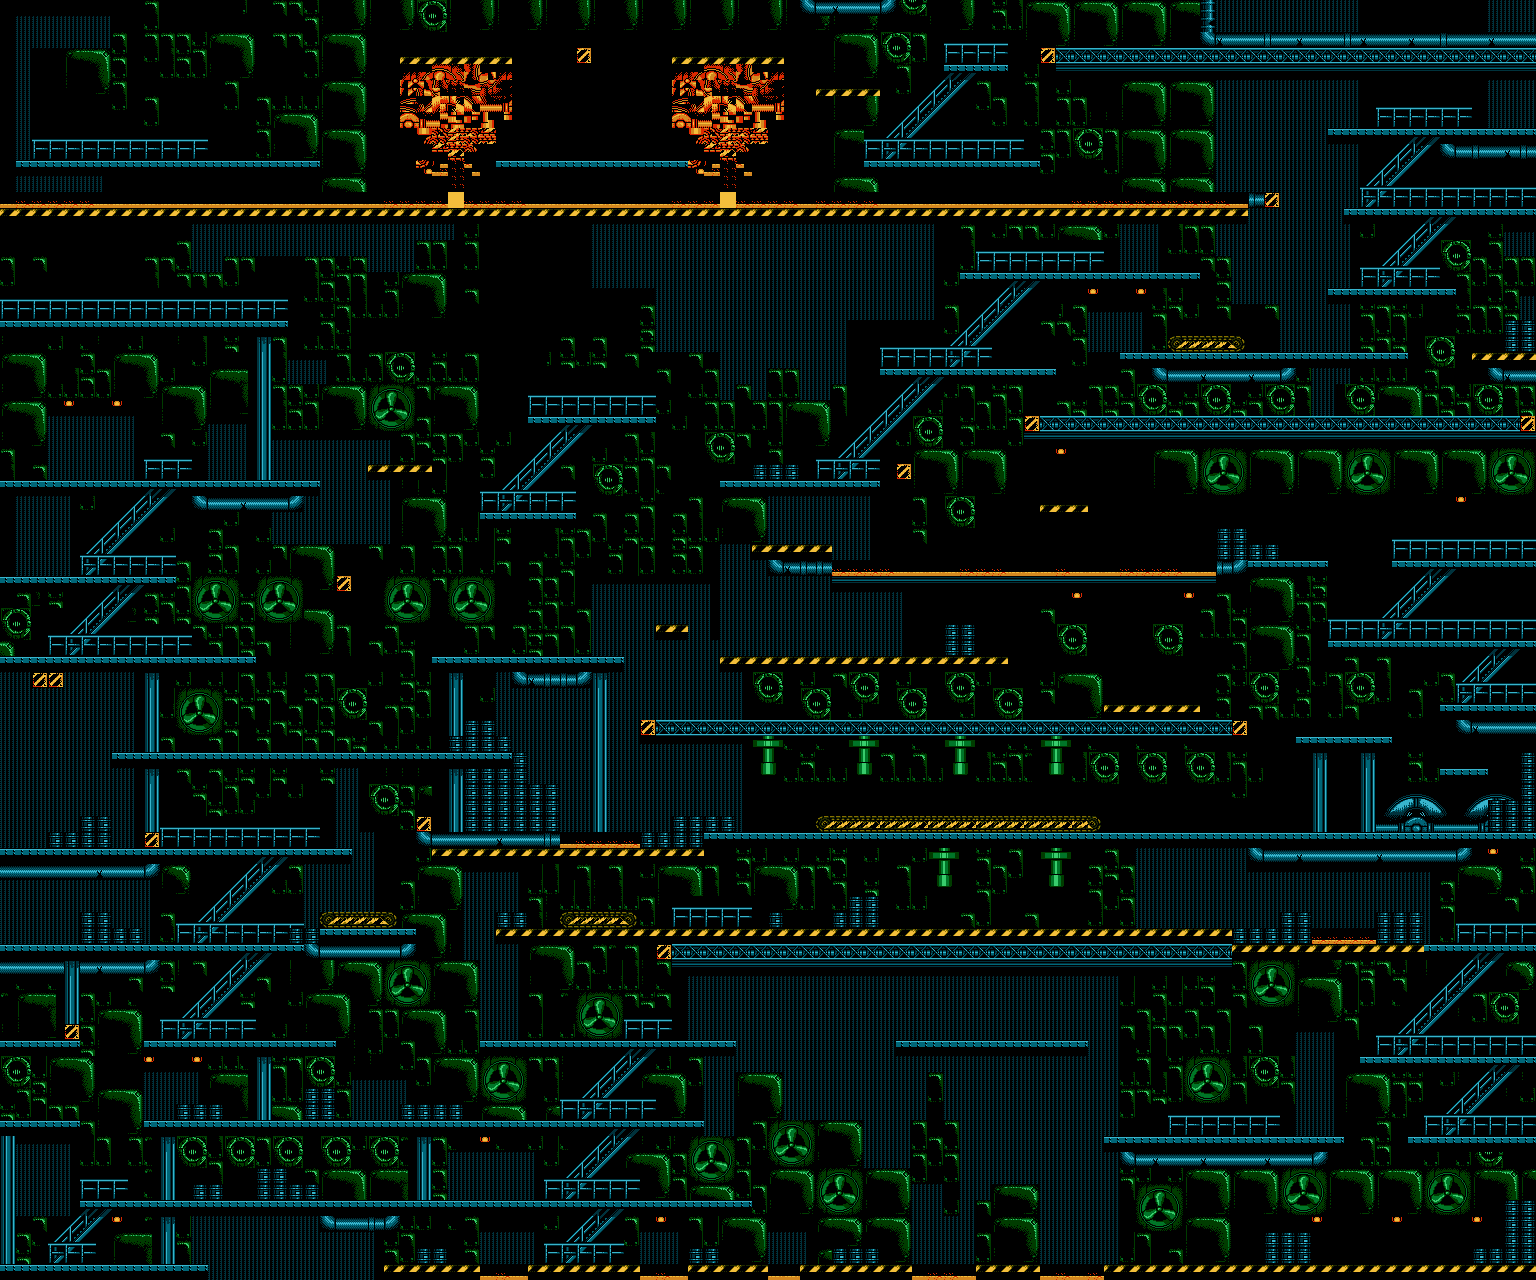
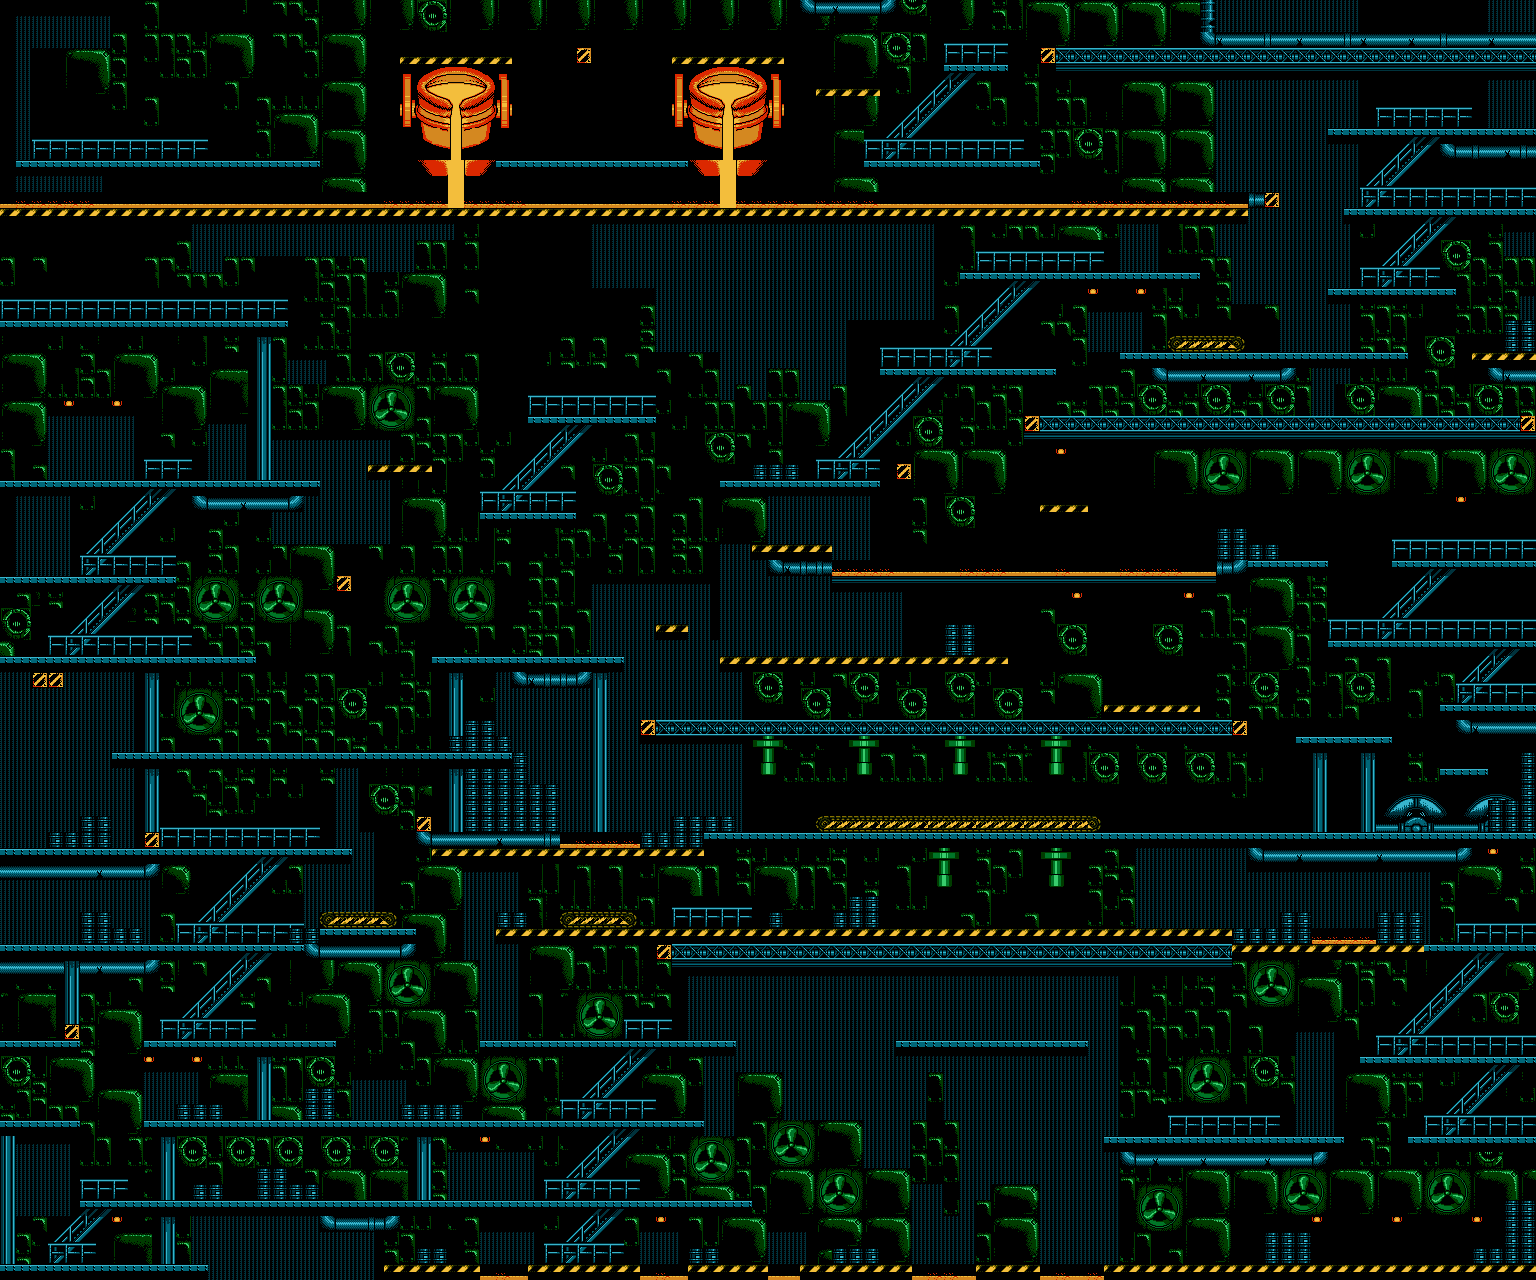
Terminator 2: the maps' CHR banks tile by tile — the steel mill's ladles whole, its fans one picture

Changed region(s): [[0.4375, 0.0312, 0.5312, 0.1562], [0.25, 0.0312, 0.3438, 0.1562]]

diff --git a/terminator-2-judgment-day/src/tile-banks.ts b/terminator-2-judgment-day/src/tile-banks.ts
@@ -1,0 +1,161 @@
+/**
+ * Which CHR bank the game draws each map tile with (STATUS §9). One set of banks a map is not
+ * enough: in the steel mill the field's background banks (slots 2-3) turn the fans by cycling
+ * 8/9, a/b, c/d, e/f a few frames each, and while the ladles of molten steel are in view the game
+ * holds 28/29 instead — the ladles exist only in those — switching the lines below back to the fans'
+ * set by the scanline IRQ; the elevator's car is drawn from 42/43 on its lines only.
+ *
+ * So, per area: a set of background banks that the field takes for a few frames at a time is an
+ * animation (`ANIMATED`: its stretches at the field's top average under 30 frames), and a tile drawn
+ * from it is drawn from the one frame render.ts looks at (`LOOK`) for the whole map, so a fan stays
+ * one picture. A tile drawn from a set held longer gets that set's bank for its slot.
+ *
+ * From the packed run (out/levels/take.bin.gz, src/take-pack.ts): on every shown frame, every map tile
+ * whose middle is in the field, the set of its line (the bank run through its middle). Per tile
+ * `keep` decides.
+ *   tileBanks(header) → Int16Array (tile row × tile columns): its own bank, or -1 (the look's)
+ *   node --experimental-strip-types --no-warnings src/tile-banks.ts   (prints a summary)
+ */
+import { readFileSync } from 'node:fs';
+import { gunzipSync } from 'node:zlib';
+import { HEADERS, area, tileAt } from './level.ts';
+import { BANKS, FIELD, SIZE } from './take-pack-layout.ts';
+
+let counts: Map<number, Map<number, Map<number, number>>> | null = null;
+/** In the counts: the tile was drawn from an animated set (or from the look's own). */
+const FIELD_OWN = -1;
+/** A set whose stretches at the field's top average fewer frames than this is an animation. */
+const ANIMATED = 30;
+/** Per header, the background sets found to be animations (printed by the summary). */
+const animatedOf = new Map<number, Map<string, number>>();
+
+/** Every shown frame of the packed run: its state, through `each`. */
+function frames(each: (s: Uint8Array) => void) {
+  const data = gunzipSync(readFileSync('out/levels/take.bin.gz'));
+  const total = (data[4] | (data[5] << 8) | (data[6] << 16)) + 1;
+  const size = data[8] | (data[9] << 8);
+  if (size !== SIZE) throw new Error(`take.bin.gz has states of ${size}, not ${SIZE}`);
+  const s = new Uint8Array(size);
+  let o = 10;
+  for (let f = 0; f < total; f++) {
+    const n = data[o] | (data[o + 1] << 8);
+    o += 2;
+    for (let k = 0; k < n; k++, o += 3) s[data[o] | (data[o + 1] << 8)] = data[o + 2];
+    o += 2 + 2 * (data[o] | (data[o + 1] << 8));
+    if (s[0] < HEADERS && s[1]) each(s);
+  }
+}
+
+const bgOf = (s: Uint8Array, r: number) => {
+  const table = s[6] & 0x10 ? 4 : 0;
+  return [0, 1, 2, 3].map((i) => s[BANKS + 9 * r + 1 + table + i]).join(',');
+};
+
+function count() {
+  // The sets at the field's top, frame after frame: how long each holds.
+  const stretches = new Map<number, Map<string, [number, number]>>();
+  let last = '';
+  let lastH = -1;
+  frames((s) => {
+    const k = bgOf(s, 0);
+    if (k === last && s[0] === lastH) return;
+    last = k;
+    lastH = s[0];
+    const m = stretches.get(s[0]) ?? new Map();
+    stretches.set(s[0], m);
+    const e = m.get(k) ?? [0, 0];
+    e[1]++;
+    m.set(k, e);
+  });
+  frames((s) => {
+    const e = stretches.get(s[0])!.get(bgOf(s, 0))!;
+    e[0]++;
+  });
+  for (const [h, m] of stretches) {
+    const anim = new Map<string, number>();
+    for (const [k, [n, times]] of m) if (n / times < ANIMATED) anim.set(k, n / times);
+    animatedOf.set(h, anim);
+  }
+  const areas = Array.from({ length: HEADERS }, (_, h) => area(h));
+  const all = new Map<number, Map<number, Map<number, number>>>();
+  frames((s) => {
+    const h = s[0];
+    const a = areas[h];
+    const anim = animatedOf.get(h)!;
+    const x = ((s[3] << 8) | s[2]) << 16 >> 16;
+    const y = ((s[5] << 8) | s[4]) << 16 >> 16;
+    const table = s[6] & 0x10 ? 4 : 0;
+    const runs = s[12];
+    let byTile = all.get(h);
+    if (!byTile) all.set(h, (byTile = new Map()));
+    const W = a.cols * 2;
+    for (let ty = Math.max(0, Math.ceil((y - 4) / 8)); ty < a.rows * 2; ty++) {
+      const mid = ty * 8 + 4 - y;
+      // The field's last tile row is left out: on some frames its lines are the status bar's, drawn
+      // from the status bar's banks (2, 3).
+      if (mid >= FIELD - 8) break;
+      if (mid < 0) continue;
+      let run = 0;
+      for (let r = 1; r < runs; r++) if (s[BANKS + 9 * r] <= mid) run = r;
+      const animated = anim.has(bgOf(s, run));
+      for (let tx = Math.max(0, Math.ceil((x - 4) / 8)); tx < W; tx++) {
+        const mx = tx * 8 + 4 - x;
+        if (mx >= 256) break;
+        if (mx < 0) continue;
+        const { tile } = tileAt(a, tx, ty);
+        const bank = animated ? FIELD_OWN : s[BANKS + 9 * run + 1 + table + (tile >> 6)];
+        const key = ty * W + tx;
+        let c = byTile.get(key);
+        if (!c) byTile.set(key, (c = new Map()));
+        c.set(bank, (c.get(bank) ?? 0) + 1);
+      }
+    }
+  });
+  return all;
+}
+
+/**
+ * The bank kept for a tile: the field's own (-1) where it was drawn so at least as often as from any
+ * one other bank; else that bank — but the status bar's banks 2 and 3 never win over another (the
+ * game draws parts of the field from them only on its way between maps: black patches in the
+ * hospital's corridors by the elevator).
+ */
+function keep(c: Map<number, number>): number {
+  const own = c.get(FIELD_OWN) ?? 0;
+  const others = [...c].filter(([b]) => b !== FIELD_OWN).sort((p, q) => q[1] - p[1]);
+  const best = others.find(([b]) => b !== 2 && b !== 3) ?? others[0];
+  return best && best[1] > own && !(own > 0 && (best[0] === 2 || best[0] === 3)) ? best[0] : FIELD_OWN;
+}
+
+/**
+ * The elevator shaft (header 3) is left to the look's banks: its whole layout is the car over and
+ * over, and the car the player sees is a window of banks 42/43 the IRQ moves down the shaft (lines
+ * 65-154 on, `src/experiments/bank-runs.ts 3`) — kept per tile it would draw a car on every floor.
+ */
+const MOVING_WINDOW = new Set([3]);
+
+export function tileBanks(header: number): Int16Array {
+  counts ??= count();
+  const a = area(header);
+  const W = a.cols * 2;
+  const out = new Int16Array(W * a.rows * 2).fill(-1);
+  if (MOVING_WINDOW.has(header)) return out;
+  for (const [key, c] of counts.get(header) ?? []) out[key] = keep(c);
+  return out;
+}
+
+if (import.meta.url === `file://${process.argv[1]}`) {
+  counts = count();
+  for (const [h, byTile] of [...counts].sort((p, q) => p[0] - q[0])) {
+    let mixed = 0;
+    const banks = new Map<number, number>();
+    for (const c of byTile.values()) {
+      if (c.size > 1) mixed++;
+      const b = keep(c);
+      banks.set(b, (banks.get(b) ?? 0) + 1);
+    }
+    const list = [...banks].sort((p, q) => q[1] - p[1]).map(([b, n]) => `${b < 0 ? 'own' : b.toString(16)}×${n}`).join(' ');
+    const anim = [...(animatedOf.get(h) ?? [])].map(([k, n]) => `${k} (${n.toFixed(1)} frames)`).join(' ');
+    console.log(`header ${h}: ${byTile.size} tiles seen, ${mixed} drawn from more than one bank; banks kept: ${list}${anim ? `; animated: ${anim}` : ''}`);
+  }
+}

diff --git a/terminator-2-judgment-day/src/render.ts b/terminator-2-judgment-day/src/render.ts
@@ -1,7 +1,9 @@
 /**
  * Every area drawn whole from the cartridge (level.ts) -> out/levels/<header>.png, with the
- * background CHR banks the PPU reads on line 100 and the palette, both at a frame of the TAS inside
- * the area (`LOOK`).
+ * background CHR banks the game drew each tile with in the run (tile-banks.ts; the scanline IRQ
+ * switches them partway down in the steel mill and the elevator) — where the run never showed a tile,
+ * the banks the PPU reads on line 100 — and the palette, both at a frame of the TAS inside the area
+ * (`LOOK`).
  *   node --experimental-strip-types --no-warnings src/render.ts [header …]
  */
 import { mkdirSync, writeFileSync } from 'node:fs';
@@ -9,6 +11,7 @@ import { encodePng } from '../libs/nes/src/png.ts';
 import { NES_RGB } from '../libs/nes/src/palette.ts';
 import { Run } from './run.ts';
 import { HEADERS, NAMES, area, tileAt } from './level.ts';
+import { tileBanks } from './tile-banks.ts';
 
 /** A movie frame inside each header's area, in play (src/experiments/header-loads.ts). */
 export const LOOK = [35500, 13200, 12950, 13500, 18800, 1700, 9500, 19700, 7000];
@@ -37,7 +40,11 @@ export function lookAt(run: Run, f: number, line = 100): Look {
   return { slots, palette: m.ppu.palette.slice() };
 }
 
-export function drawArea(header: number, look: Look, chr: Uint8Array) {
+/**
+ * `banks`: per tile (tile row × tile columns) the 1 KB CHR bank the game drew it with (tile-banks.ts),
+ * -1 where the run never showed it — those take `look`'s.
+ */
+export function drawArea(header: number, look: Look, chr: Uint8Array, banks?: Int16Array) {
   const a = area(header);
   const width = a.cols * 16;
   const height = a.rows * 16;
@@ -45,7 +52,8 @@ export function drawArea(header: number, look: Look, chr: Uint8Array) {
   for (let ty = 0; ty < a.rows * 2; ty++) {
     for (let tx = 0; tx < a.cols * 2; tx++) {
       const { tile, palette } = tileAt(a, tx, ty);
-      const at = look.slots[tile >> 6] + (tile & 63) * 16;
+      const b = banks ? banks[ty * a.cols * 2 + tx] : -1;
+      const at = (b >= 0 ? b * 0x400 : look.slots[tile >> 6]) + (tile & 63) * 16;
       for (let y = 0; y < 8; y++) {
         const lo = chr[at + y];
         const hi = chr[at + y + 8];
@@ -68,7 +76,7 @@ if (import.meta.url === `file://${process.argv[1]}`) {
   const run = new Run();
   for (const h of order) {
     const look = lookAt(run, LOOK[h]);
-    const { pixels, width, height } = drawArea(h, look, run.m.cart.chr);
+    const { pixels, width, height } = drawArea(h, look, run.m.cart.chr, tileBanks(h));
     writeFileSync(`out/levels/${h}.png`, encodePng(pixels, width, height, 1));
     const a = area(h);
     console.log(`header ${h} (${NAMES[h]}): ${a.cols}x${a.rows} blocks, bank ${a.bank}, layout prg ${a.layoutAt.toString(16)}, slots ${look.slots.map((s) => s.toString(16)).join(' ')}`);

diff --git a/terminator-2-judgment-day/src/experiments/bank-runs.ts b/terminator-2-judgment-day/src/experiments/bank-runs.ts
@@ -1,0 +1,40 @@
+/**
+ * The background bank sets of an area's frames, from the packed run: how often each set opens the
+ * field (run 0, from line 0) and how often it comes later (after a scanline IRQ switch), and on
+ * which lines those later runs start.
+ *   node --experimental-strip-types --no-warnings src/experiments/bank-runs.ts <header>
+ */
+import { readFileSync } from 'node:fs';
+import { gunzipSync } from 'node:zlib';
+import { BANKS, SIZE } from '../take-pack-layout.ts';
+
+const header = Number(process.argv[2] ?? 0);
+const data = gunzipSync(readFileSync('out/levels/take.bin.gz'));
+const frames = (data[4] | (data[5] << 8) | (data[6] << 16)) + 1;
+const s = new Uint8Array(SIZE);
+const first = new Map<string, number>();
+const later = new Map<string, { n: number; lines: Map<number, number> }>();
+let o = 10;
+for (let f = 0; f < frames; f++) {
+  const n = data[o] | (data[o + 1] << 8);
+  o += 2;
+  for (let k = 0; k < n; k++, o += 3) s[data[o] | (data[o + 1] << 8)] = data[o + 2];
+  o += 2 + 2 * (data[o] | (data[o + 1] << 8));
+  if (s[0] !== header || !s[1]) continue;
+  const table = s[6] & 0x10 ? 4 : 0;
+  const bg = (r: number) => [0, 1, 2, 3].map((i) => s[BANKS + 9 * r + 1 + table + i].toString(16)).join(',');
+  first.set(bg(0), (first.get(bg(0)) ?? 0) + 1);
+  for (let r = 1; r < s[12]; r++) {
+    if (bg(r) === bg(r - 1)) continue;
+    const e = later.get(bg(r)) ?? { n: 0, lines: new Map() };
+    e.n++;
+    const line = s[BANKS + 9 * r];
+    e.lines.set(line, (e.lines.get(line) ?? 0) + 1);
+    later.set(bg(r), e);
+  }
+}
+console.log('opening the field:', [...first].sort((p, q) => q[1] - p[1]).map(([k, n]) => `${k}×${n}`).join('  '));
+for (const [k, e] of [...later].sort((p, q) => q[1].n - p[1].n)) {
+  const lines = [...e.lines].sort((p, q) => p[0] - q[0]);
+  console.log(`later ${k} ×${e.n}, lines ${lines[0][0]}-${lines[lines.length - 1][0]}`);
+}

diff --git a/terminator-2-judgment-day/src/experiments/mill-phases.ts b/terminator-2-judgment-day/src/experiments/mill-phases.ts
@@ -1,0 +1,31 @@
+/**
+ * The steel mill's top drawn with each of the background bank sets its field opens with (bank-runs.ts):
+ * slots 0-1 = 6, 7 and slots 2-3 = each pair -> runs/mill-<pair>.png (the map's top 768 × 320).
+ *   node --experimental-strip-types --no-warnings src/experiments/mill-phases.ts
+ */
+import { mkdirSync, writeFileSync } from 'node:fs';
+import { encodePng } from '../../libs/nes/src/png.ts';
+import { NES_RGB } from '../../libs/nes/src/palette.ts';
+import { area, tileAt } from '../level.ts';
+import { lookAt, LOOK } from '../render.ts';
+import { Run } from '../run.ts';
+
+const a = area(0);
+const run = new Run();
+const look = lookAt(run, LOOK[0]);
+const chr = run.m.cart.chr;
+const W = 768, H = 320;
+mkdirSync('runs', { recursive: true });
+for (const pair of [[8, 9], [0xa, 0xb], [0xc, 0xd], [0xe, 0xf], [0x28, 0x29]]) {
+  const slots = [6, 7, ...pair].map((b) => b * 0x400);
+  const px = new Uint32Array(W * H);
+  for (let ty = 0; ty < H / 8; ty++) for (let tx = 0; tx < W / 8; tx++) {
+    const { tile, palette } = tileAt(a, tx, ty);
+    const at = slots[tile >> 6] + (tile & 63) * 16;
+    for (let y = 0; y < 8; y++) for (let x = 0; x < 8; x++) {
+      const c = ((chr[at + y] >> (7 - x)) & 1) | (((chr[at + y + 8] >> (7 - x)) & 1) << 1);
+      px[(ty * 8 + y) * W + tx * 8 + x] = NES_RGB[(c ? look.palette[palette * 4 + c] : look.palette[0]) & 0x3f];
+    }
+  }
+  writeFileSync(`runs/mill-${pair[0].toString(16)}.png`, encodePng(px, W, H, 1));
+}

diff --git a/terminator-2-judgment-day/src/bike-corridor.ts b/terminator-2-judgment-day/src/bike-corridor.ts
@@ -12,6 +12,7 @@ import { readCapture } from './capture.ts';
 import { BIKE, area, tileAt } from './level.ts';
 import { LOOK, lookAt } from './render.ts';
 import { Run } from './run.ts';
+import { tileBanks } from './tile-banks.ts';
 
 const a = area(BIKE);
 const W = a.cols * 2;
@@ -36,6 +37,7 @@ for (let ty = 0; ty < H; ty++) for (let tx = 0; tx < W; tx++) {
 const run = new Run();
 const look = lookAt(run, LOOK[BIKE]);
 const chr = run.m.cart.chr;
+const banks = tileBanks(BIKE);
 const width = (x1 - x0 + 1) * 8;
 const height = (y1 - y0 + 1) * 8;
 const pixels = new Uint32Array(width * height);
@@ -43,7 +45,8 @@ for (let ty = y0; ty <= y1; ty++) {
   for (let tx = x0; tx <= x1; tx++) {
     if (!seen[ty * W + tx]) continue;
     const { tile, palette } = tileAt(a, tx, ty);
-    const at = look.slots[tile >> 6] + (tile & 63) * 16;
+    const bk = banks[ty * W + tx];
+    const at = (bk >= 0 ? bk * 0x400 : look.slots[tile >> 6]) + (tile & 63) * 16;
     for (let y = 0; y < 8; y++) {
       const lo = chr[at + y];
       const hi = chr[at + y + 8];

diff --git a/terminator-2-judgment-day/src/take-pack.ts b/terminator-2-judgment-day/src/take-pack.ts
@@ -28,12 +28,7 @@ import { Run } from './run.ts';
 import { BIKE, HEADERS, ORDER, area, tileAt, type Area } from './level.ts';
 import { readFileSync } from 'node:fs';
 
-export const SIZE = 4480;
-export const BANKS = 16;
-export const OAM = 96;
-export const PAL = 352;
-export const NT = 384;
-export const FIELD = 220;
+import { BANKS, FIELD, NT, OAM, SIZE } from './take-pack-layout.ts';
 /** Where the flood channel's corridor map lies in its world (written by src/bike-corridor.ts). */
 const corridor = JSON.parse(readFileSync('out/levels/6-corridor.json', 'utf8')) as { x: number; y: number };
 

diff --git a/terminator-2-judgment-day/src/take-pack-layout.ts b/terminator-2-judgment-day/src/take-pack-layout.ts
@@ -1,0 +1,8 @@
+/** Where things lie in a frame's state of out/levels/take.bin.gz (src/take-pack.ts has the layout). */
+export const SIZE = 4480;
+export const BANKS = 16;
+export const OAM = 96;
+export const PAL = 352;
+export const NT = 384;
+/** The field: lines 0-219, one scroll; the status bar below has its own. */
+export const FIELD = 220;

diff --git a/terminator-2-judgment-day/STATUS.md b/terminator-2-judgment-day/STATUS.md
@@ -206,3 +206,28 @@ channel, the hospital corridors and the steel mill — the game's frame sits on 
 at its edges, the path ahead, no errors.
 **Open:** the music/effect split is from the code, not yet heard; the hospital's and Cyberdyne's
 many short spans make the clock per span short (6 s in the first hospital corridors).
+
+## 9. A map's CHR banks, tile by tile (`src/tile-banks.ts`)
+
+The maps were drawn from the background banks of one frame each (render.ts `LOOK`). In the steel
+mill the user saw the ladles of molten steel as noise on the map: the game draws them from banks
+no single frame's top lines use. `src/experiments/bank-runs.ts <header>` (the sets opening the field
+and the sets the scanline IRQ switches to further down, from the packed run) and
+`src/experiments/mill-phases.ts` (the mill's top with each set) show how the banks go:
+- **The steel mill's fans turn by bank switching:** slots 2-3 cycle 8/9, a/b, c/d, e/f, 4.1 frames
+  each. **The ladles exist only in 28/29**, which the game holds instead while they are in view
+  (1 474 frames open with it), switching the lines below them back to the fans' set at line
+  179-180. Drawn with any fans' set the ladles are noise; with 28/29 they are whole.
+- **The elevator's car is a window of banks.** The shaft's layout is the car over and over; the IRQ
+  draws lines 65-154 or so from 42/43 (the car) and the rest from 2/3 (black), and moves that window
+  down the shaft.
+
+So per tile, from the packed run: the set its line was drawn with on every shown frame (the field's
+last tile row left out — on some frames it is the status bar's, banks 2/3). A set whose stretches
+at the field's top average under 30 frames is an animation (only the mill's four fans' sets): a tile
+drawn from it, or never from another, keeps the look's banks, so a fan stays one picture. Else the
+tile takes the bank it was drawn from most — the status bar's 2/3 only where nothing else was seen
+(the game draws parts of the hospital's corridors by the elevator from them on its way between
+maps: black patches when they won). The elevator shaft keeps the look's banks (a car on every floor
+otherwise). Result: 308 tiles of the steel mill (the ladles) changed, every other map pixel for
+pixel as before; the flood channel's corridor redrawn the same way.
